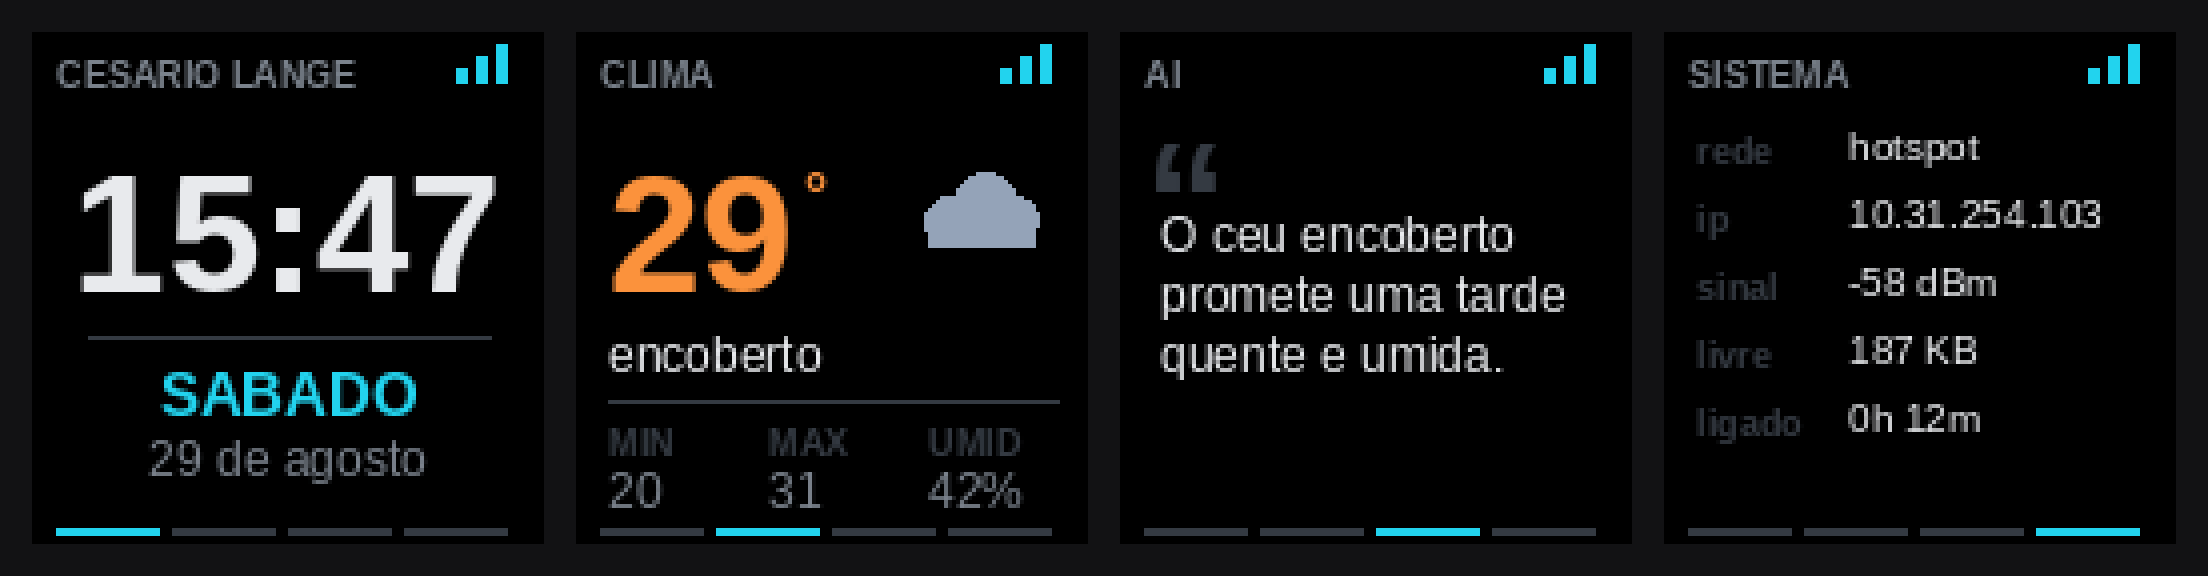
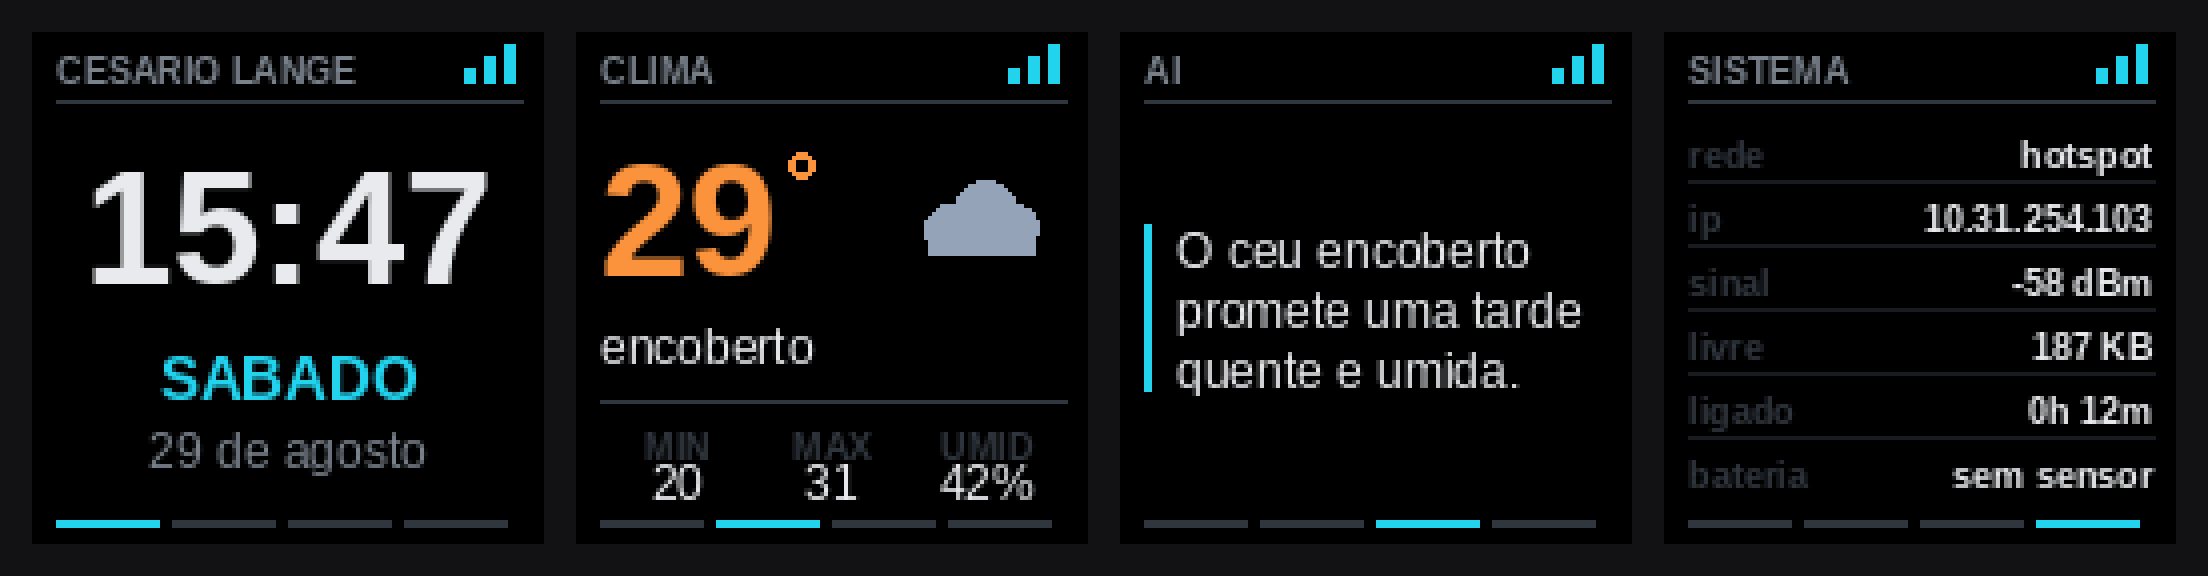
docs: update C3 board README and dash UI elements
Enhanced the README for the C3 board with new information regarding battery telemetry and charger functionality. Updated the dash UI code to improve layout and visual consistency, including adjustments to padding, text positioning, and color definitions. Added functionality for right-aligned text rendering and improved handling of screen elements in the Python rendering script. This update aims to enhance user experience and documentation clarity.

diff --git a/boards/c3/dash/firmware/src/ui.cpp b/boards/c3/dash/firmware/src/ui.cpp
@@ -14,6 +14,10 @@
 #define COL_FG 0xE73C
 #define COL_DIM 0x7BCF
 #define COL_FAINT 0x31A6
+#define COL_HAIR 0x10A2
+#define UI_PAD 6
+#define UI_HEADER_Y 17
+#define UI_FOOTER_Y 122
 #define COL_ACCENT 0x279F
 #define COL_WARM 0xFCAF
 #define COL_COOL 0x62FF
@@ -72,19 +76,25 @@ static void drawCentered(const char *s, int baseline, const GFXfont *font, uint1
   draw(s, (UI_W - widthOf(s, font)) / 2, baseline, font, color);
 }
 
+static void microRight(const char *s, int right, int y, uint16_t color) {
+  micro(s, right - (int)strlen(s) * 6, y, color);
+}
+
 static void chrome(const char *label, int page) {
   canvas.fillScreen(COL_BG);
-  micro(label, 6, 5, COL_DIM);
+  micro(label, UI_PAD, 4, COL_DIM);
 
   const int bars = netRssiBars();
   for (int i = 0; i < 3; ++i) {
     const int h = 3 + i * 3;
-    canvas.fillRect(UI_W - 22 + i * 5, 12 - h, 3, h, i < bars ? COL_ACCENT : COL_FAINT);
+    canvas.fillRect(UI_W - 20 + i * 5, 12 - h, 3, h, i < bars ? COL_ACCENT : COL_FAINT);
   }
+  canvas.drawFastHLine(UI_PAD, UI_HEADER_Y, UI_W - 2 * UI_PAD, COL_FAINT);
 
-  const int seg = (UI_W - 12) / 4;
+  const int seg = (UI_W - 2 * UI_PAD) / UI_PAGES;
   for (int i = 0; i < UI_PAGES; ++i) {
-    canvas.fillRect(6 + i * seg, UI_H - 4, seg - 4, 2, i == page ? COL_ACCENT : COL_FAINT);
+    canvas.fillRect(UI_PAD + i * seg, UI_FOOTER_Y, seg - 4, 2,
+                    i == page ? COL_ACCENT : COL_FAINT);
   }
 }
 
@@ -160,17 +170,17 @@ void uiClock(const struct tm &now, bool timeReady, int page) {
 
   char hhmm[6];
   snprintf(hhmm, sizeof(hhmm), "%02d:%02d", now.tm_hour, now.tm_min);
-  drawCentered(hhmm, 66, &FreeSansBold24pt7b, timeReady ? COL_FG : COL_FAINT);
+  drawCentered(hhmm, 62, &FreeSansBold24pt7b, timeReady ? COL_FG : COL_FAINT);
 
-  canvas.fillRect(14, 74, UI_W - 28, 1, COL_FAINT);
+  drawCentered(kWeekdays[now.tm_wday % 7], 90, &FreeSansBold12pt7b, COL_ACCENT);
 
-  drawCentered(kWeekdays[now.tm_wday % 7], 95, &FreeSansBold12pt7b, COL_ACCENT);
-
-  char date[24];
-  snprintf(date, sizeof(date), "%d de %s", now.tm_mday, kMonths[now.tm_mon % 12]);
-  drawCentered(date, 113, &FreeSans9pt7b, COL_DIM);
-
-  if (!timeReady) micro("sincronizando", 22, 118, COL_WARM);
+  if (timeReady) {
+    char date[24];
+    snprintf(date, sizeof(date), "%d de %s", now.tm_mday, kMonths[now.tm_mon % 12]);
+    drawCentered(date, 110, &FreeSans9pt7b, COL_DIM);
+  } else {
+    drawCentered("sincronizando", 110, &FreeSans9pt7b, COL_WARM);
+  }
   uiPush();
 }
 
@@ -187,13 +197,13 @@ void uiWeather(const Place &p, const Weather &w, int page) {
   char temp[6];
   snprintf(temp, sizeof(temp), "%.0f", w.tempC);
   const uint16_t tc = tempColor(w.tempC);
-  draw(temp, 8, 66, &FreeSansBold24pt7b, tc);
-  canvas.drawCircle(12 + widthOf(temp, &FreeSansBold24pt7b), 40, 3, tc);
+  draw(temp, UI_PAD, 62, &FreeSansBold24pt7b, tc);
+  canvas.drawCircle(UI_PAD + widthOf(temp, &FreeSansBold24pt7b) + 6, 36, 3, tc);
 
   weatherIcon(w.code, 100, 46);
 
-  draw(w.desc, 8, 86, &FreeSans9pt7b, COL_FG);
-  canvas.fillRect(8, 93, UI_W - 16, 1, COL_FAINT);
+  draw(w.desc, UI_PAD, 82, &FreeSans9pt7b, COL_FG);
+  canvas.drawFastHLine(UI_PAD, 92, UI_W - 2 * UI_PAD, COL_FAINT);
 
   const char *labels[3] = {"MIN", "MAX", "UMID"};
   char values[3][8];
@@ -201,10 +211,11 @@ void uiWeather(const Place &p, const Weather &w, int page) {
   snprintf(values[1], sizeof(values[1]), "%.0f", w.maxC);
   snprintf(values[2], sizeof(values[2]), "%d%%", w.humidity);
 
+  const int step = (UI_W - 2 * UI_PAD) / 3;
   for (int i = 0; i < 3; ++i) {
-    const int x = 8 + i * 40;
-    micro(labels[i], x, 99, COL_FAINT);
-    draw(values[i], x, 121, &FreeSans9pt7b, COL_DIM);
+    const int cx = UI_PAD + step * i + step / 2;
+    micro(labels[i], cx - (int)strlen(labels[i]) * 3, 98, COL_FAINT);
+    draw(values[i], cx - widthOf(values[i], &FreeSans9pt7b) / 2, 118, &FreeSans9pt7b, COL_FG);
   }
   uiPush();
 }
@@ -218,36 +229,40 @@ void uiInsight(const char *text, bool pending, int page) {
     return;
   }
 
-  draw("\"", 6, 46, &FreeSansBold24pt7b, COL_FAINT);
+  const int kMaxLines = 6;
+  char lines[kMaxLines][26];
+  int count = 0;
 
-  canvas.setFont(&FreeSans9pt7b);
-  canvas.setTextColor(COL_FG);
-
-  int y = 46;
   const char *p = text;
-  char line[26];
-  while (*p && y < UI_H - 8) {
+  while (*p && count < kMaxLines) {
     while (*p == ' ') ++p;
     if (!*p) break;
 
+    char probe[26];
     int take = 0;
     int fit = 0;
     while (p[take]) {
       const int len = take + 1;
-      if (len >= (int)sizeof(line)) break;
-      memcpy(line, p, len);
-      line[len] = '\0';
-      if (widthOf(line, &FreeSans9pt7b) > UI_W - 20) break;
+      if (len >= (int)sizeof(probe)) break;
+      memcpy(probe, p, len);
+      probe[len] = '\0';
+      if (widthOf(probe, &FreeSans9pt7b) > UI_W - 24) break;
       if (p[take] == ' ') fit = take;
       ++take;
     }
     if (p[take] && fit > 0) take = fit;
 
-    memcpy(line, p, take);
-    line[take] = '\0';
-    draw(line, 10, y, &FreeSans9pt7b, COL_FG);
-    y += 15;
+    memcpy(lines[count], p, take);
+    lines[count][take] = '\0';
+    ++count;
     p += take;
+  }
+
+  const int block = count * 15;
+  const int top = 24 + (94 - block > 0 ? (94 - block) / 2 : 0);
+  canvas.fillRect(UI_PAD, top, 2, block - 4, COL_ACCENT);
+  for (int i = 0; i < count; ++i) {
+    draw(lines[i], UI_PAD + 8, top + 11 + i * 15, &FreeSans9pt7b, COL_FG);
   }
   uiPush();
 }
@@ -265,9 +280,10 @@ void uiSystem(const Place &p, int page) {
   snprintf(values[4], sizeof(values[4]), "%luh %02lum", up / 3600, (up % 3600) / 60);
 
   for (int i = 0; i < 5; ++i) {
-    const int y = 26 + i * 17;
-    micro(labels[i], 8, y, COL_FAINT);
-    micro(values[i], 46, y, COL_FG);
+    const int y = 27 + i * 18;
+    micro(labels[i], UI_PAD, y, COL_FAINT);
+    microRight(values[i], UI_W - UI_PAD, y, COL_FG);
+    if (i < 4) canvas.drawFastHLine(UI_PAD, y + 13, UI_W - 2 * UI_PAD, COL_HAIR);
   }
   uiPush();
 }

diff --git a/boards/c3/dash/preview/render.py b/boards/c3/dash/preview/render.py
@@ -11,20 +11,22 @@ BOLD = "/usr/share/fonts/liberation-sans-fonts/LiberationSans-Bold.ttf"
 BG = (0, 0, 0)
 FG = (232, 234, 237)
 DIM = (122, 130, 140)
-FAINT = (52, 58, 66)
+FAINT = (48, 54, 62)
 ACCENT = (34, 211, 238)
 WARM = (251, 146, 60)
 COOL = (96, 165, 250)
-GOOD = (52, 211, 153)
 SUN = (250, 204, 21)
 CLOUD = (148, 163, 184)
 RAIN = (56, 130, 246)
 
-big = ImageFont.truetype(BOLD, 42)
+big = ImageFont.truetype(BOLD, 40)
 mid = ImageFont.truetype(BOLD, 15)
 reg = ImageFont.truetype(SANS, 12)
-tiny = ImageFont.truetype(SANS, 10)
 micro = ImageFont.truetype(BOLD, 9)
+
+PAD = 6
+HEADER_Y = 17
+FOOTER_Y = 122
 
 
 def new():
@@ -32,20 +34,24 @@ def new():
 
 
 def center(d, text, y, font, fill):
-    w = d.textlength(text, font=font)
-    d.text(((W - w) / 2, y), text, font=font, fill=fill)
+    d.text(((W - d.textlength(text, font=font)) / 2, y), text, font=font, fill=fill)
+
+
+def right(d, text, y, font, fill):
+    d.text((W - PAD - d.textlength(text, font=font), y), text, font=font, fill=fill)
 
 
 def chrome(d, label, page, bars=3):
-    d.text((6, 5), label, font=micro, fill=DIM)
+    d.text((PAD, 4), label, font=micro, fill=DIM)
     for i in range(3):
         h = 3 + i * 3
         c = ACCENT if i < bars else FAINT
-        d.rectangle([W - 22 + i * 5, 12 - h, W - 20 + i * 5, 12], fill=c)
-    seg = (W - 12) / 4
+        d.rectangle([W - 20 + i * 5, 12 - h, W - 18 + i * 5, 12], fill=c)
+    d.line([PAD, HEADER_Y, W - PAD, HEADER_Y], fill=FAINT, width=1)
+    seg = (W - 2 * PAD) / 4
     for i in range(4):
-        x = 6 + i * seg
-        d.rectangle([x, H - 4, x + seg - 4, H - 3], fill=ACCENT if i == page else FAINT)
+        x = PAD + i * seg
+        d.rectangle([x, FOOTER_Y, x + seg - 4, FOOTER_Y + 1], fill=ACCENT if i == page else FAINT)
 
 
 def icon_sun(d, cx, cy, r=9):
@@ -60,10 +66,10 @@ def icon_cloud(d, cx, cy, color=CLOUD):
 
 
 def icon_rain(d, cx, cy):
-    icon_cloud(d, cx, cy - 4)
+    icon_cloud(d, cx, cy - 5)
     for i in range(3):
         x = cx - 9 + i * 9
-        d.line([x, cy + 9, x - 3, cy + 17], fill=RAIN, width=2)
+        d.line([x, cy + 8, x - 3, cy + 15], fill=RAIN, width=2)
 
 
 def screen_clock():
@@ -71,9 +77,8 @@ def screen_clock():
     d = ImageDraw.Draw(img)
     chrome(d, "CESARIO LANGE", 0)
     center(d, "15:47", 26, big, FG)
-    d.line([14, 76, W - 14, 76], fill=FAINT, width=1)
-    center(d, "SABADO", 82, mid, ACCENT)
-    center(d, "29 de agosto", 100, reg, DIM)
+    center(d, "SABADO", 78, mid, ACCENT)
+    center(d, "29 de agosto", 98, reg, DIM)
     return img
 
 
@@ -81,17 +86,18 @@ def screen_weather():
     img = new()
     d = ImageDraw.Draw(img)
     chrome(d, "CLIMA", 1)
-    d.text((8, 26), "29", font=big, fill=WARM)
+    d.text((PAD, 24), "29", font=big, fill=WARM)
     w = d.textlength("29", font=big)
-    d.text((8 + w + 2, 32), "°", font=mid, fill=WARM)
-    icon_cloud(d, 100, 44)
-    d.text((8, 74), "encoberto", font=reg, fill=FG)
-    d.line([8, 92, W - 8, 92], fill=FAINT, width=1)
+    d.ellipse([PAD + w + 3, 30, PAD + w + 9, 36], outline=WARM, width=2)
+    icon_cloud(d, 100, 46)
+    d.text((PAD, 72), "encoberto", font=reg, fill=FG)
+    d.line([PAD, 92, W - PAD, 92], fill=FAINT, width=1)
     cols = [("MIN", "20"), ("MAX", "31"), ("UMID", "42%")]
+    step = (W - 2 * PAD) / 3
     for i, (k, v) in enumerate(cols):
-        x = 8 + i * 40
-        d.text((x, 97), k, font=micro, fill=FAINT)
-        d.text((x, 108), v, font=reg, fill=DIM)
+        cx = PAD + step * i + step / 2
+        d.text((cx - d.textlength(k, font=micro) / 2, 98), k, font=micro, fill=FAINT)
+        d.text((cx - d.textlength(v, font=reg) / 2, 106), v, font=reg, fill=FG)
     return img
 
 
@@ -99,18 +105,20 @@ def screen_ai():
     img = new()
     d = ImageDraw.Draw(img)
     chrome(d, "AI", 2)
-    d.text((6, 18), "\u201c", font=big, fill=FAINT)
     text = "O ceu encoberto promete uma tarde quente e umida."
-    words, line, y = text.split(), "", 44
-    for word in words:
+    lines, line = [], ""
+    for word in text.split():
         probe = (line + " " + word).strip()
-        if d.textlength(probe, font=reg) > W - 20:
-            d.text((10, y), line, font=reg, fill=FG)
-            y += 15
+        if d.textlength(probe, font=reg) > W - 24:
+            lines.append(line)
             line = word
         else:
             line = probe
-    d.text((10, y), line, font=reg, fill=FG)
+    lines.append(line)
+    top = 24 + max(0, (94 - len(lines) * 15)) // 2
+    d.rectangle([PAD, top, PAD + 1, top + len(lines) * 15 - 4], fill=ACCENT)
+    for i, ln in enumerate(lines):
+        d.text((PAD + 8, top + i * 15), ln, font=reg, fill=FG)
     return img
 
 
@@ -119,11 +127,13 @@ def screen_system():
     d = ImageDraw.Draw(img)
     chrome(d, "SISTEMA", 3)
     rows = [("rede", "hotspot"), ("ip", "10.31.254.103"), ("sinal", "-58 dBm"),
-            ("livre", "187 KB"), ("ligado", "0h 12m")]
+            ("livre", "187 KB"), ("ligado", "0h 12m"), ("bateria", "sem sensor")]
     for i, (k, v) in enumerate(rows):
-        y = 24 + i * 17
-        d.text((8, y), k, font=micro, fill=FAINT)
-        d.text((46, y - 2), v, font=tiny, fill=FG)
+        y = 25 + i * 16
+        d.text((PAD, y), k, font=micro, fill=FAINT)
+        right(d, v, y, micro, FG)
+        if i < len(rows) - 1:
+            d.line([PAD, y + 12, W - PAD, y + 12], fill=(24, 27, 32), width=1)
     return img
 
 

diff --git a/boards/c3/README.md b/boards/c3/README.md
@@ -36,6 +36,9 @@ GPIO 2 and GPIO 8 are C3 strapping pins — both must read HIGH at reset. Holdin
 - **The backlight is not switchable.** The panel's LEDA/LEDK go to 3V3 through a fixed resistor —
   no GPIO in the path. `DISPOFF`/`SLPIN` blanks the pixels but the LED stays on.
 - **There is a battery charger on board**: PL4054, LiPo on a 1.27 mm connector, charging over USB.
+- **There is no battery telemetry.** No divider reaches an ADC: GPIO 1 is the only free ADC pin
+  (0, 2, 3, 4 belong to the display) and it floats at ~530 mV, and the vendor sketch never reads an
+  ADC. Reporting charge level needs a 2:1 divider soldered from BAT+ to GPIO 1.
 - **A user LED sits on GPIO 11**, next to the reset button.
 - Free GPIOs on the header: 1, 6, 7, 20, 21.
 

diff --git a/boards/c3/dash/README.md b/boards/c3/dash/README.md
@@ -15,6 +15,10 @@ yarn dash:flash
 Four screens in a loop — Clock, Weather, AI, System — with a segmented bar at the top showing
 where you are.
 
+System reports battery as "sem sensor" because the board exposes no way to measure it: the PL4054
+charges the LiPo but neither its status pin nor a voltage divider reaches a GPIO. A charge level
+would require soldering a 2:1 divider from BAT+ to GPIO 1.
+
 | Button | GPIO | Action |
 |--------|------|--------|
 | Top right | 8 | next screen |
